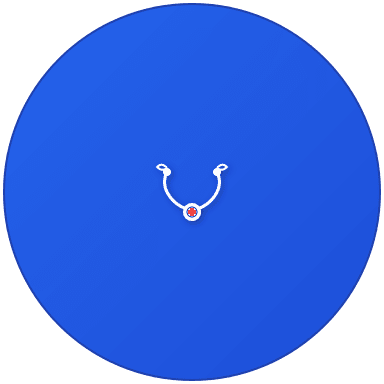
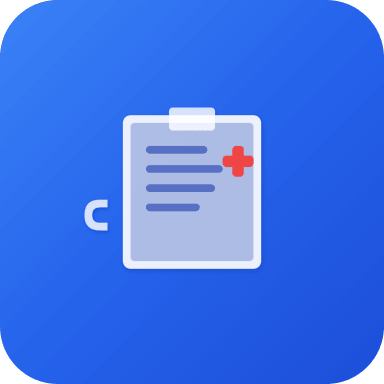
made pwa more beautiful

diff --git a/scripts/generate-icons.js b/scripts/generate-icons.js
@@ -8,43 +8,52 @@ if (!fs.existsSync(publicDir)) {
   fs.mkdirSync(publicDir, { recursive: true });
 }
 
-// Create SVG content for a medical stethoscope icon
+// Create SVG content for a clean, modern medical icon
 const createSVG = (size, bgColor = '#2563eb', iconColor = '#ffffff') => `
 <svg width="${size}" height="${size}" xmlns="http://www.w3.org/2000/svg">
   <defs>
     <linearGradient id="bg" x1="0%" y1="0%" x2="100%" y2="100%">
-      <stop offset="0%" style="stop-color:${bgColor};stop-opacity:1" />
+      <stop offset="0%" style="stop-color:#3b82f6;stop-opacity:1" />
+      <stop offset="50%" style="stop-color:#2563eb;stop-opacity:1" />
       <stop offset="100%" style="stop-color:#1d4ed8;stop-opacity:1" />
     </linearGradient>
     <filter id="shadow" x="-50%" y="-50%" width="200%" height="200%">
-      <feDropShadow dx="2" dy="2" stdDeviation="3" flood-color="#000" flood-opacity="0.3"/>
+      <feDropShadow dx="1" dy="2" stdDeviation="2" flood-color="#000" flood-opacity="0.15"/>
     </filter>
   </defs>
   
-  <!-- Background circle -->
-  <circle cx="${size/2}" cy="${size/2}" r="${size/2 - 4}" fill="url(#bg)" stroke="#1e40af" stroke-width="2"/>
+  <!-- Background with subtle radius -->
+  <rect x="0" y="0" width="${size}" height="${size}" rx="${size * 0.15}" fill="url(#bg)" />
   
-  <!-- Stethoscope design -->
+  <!-- Main icon group -->
   <g transform="translate(${size/2}, ${size/2})" fill="${iconColor}" filter="url(#shadow)">
-    <!-- Main tube -->
-    <path d="M-25,-20 Q-30,-10 -25,0 Q-20,10 -10,15 Q0,20 10,15 Q20,10 25,0 Q30,-10 25,-20" 
-          stroke="${iconColor}" stroke-width="3" fill="none"/>
     
-    <!-- Left earpiece -->
-    <circle cx="-25" cy="-20" r="4" fill="${iconColor}"/>
-    <path d="M-25,-24 Q-30,-30 -35,-25 Q-30,-20 -25,-24" stroke="${iconColor}" stroke-width="2" fill="none"/>
-    
-    <!-- Right earpiece -->
-    <circle cx="25" cy="-20" r="4" fill="${iconColor}"/>
-    <path d="M25,-24 Q30,-30 35,-25 Q30,-20 25,-24" stroke="${iconColor}" stroke-width="2" fill="none"/>
-    
-    <!-- Chest piece -->
-    <circle cx="0" cy="20" r="8" fill="${iconColor}" stroke="${iconColor}" stroke-width="2"/>
-    <circle cx="0" cy="20" r="5" fill="none" stroke="#1e40af" stroke-width="1"/>
-    
-    <!-- Medical cross on chest piece -->
-    <path d="M-2,16 L2,16 L2,18 L4,18 L4,22 L2,22 L2,24 L-2,24 L-2,22 L-4,22 L-4,18 L-2,18 Z" 
-          fill="#ef4444"/>
+    <!-- Medical clipboard/chart icon -->
+    <g transform="scale(${size/100})">
+      <!-- Clipboard background -->
+      <rect x="-18" y="-20" width="36" height="40" rx="2" fill="${iconColor}" opacity="0.9"/>
+      <rect x="-16" y="-18" width="32" height="36" rx="1" fill="#1e40af" opacity="0.3"/>
+      
+      <!-- Clip at top -->
+      <rect x="-6" y="-22" width="12" height="6" rx="1" fill="${iconColor}" opacity="0.8"/>
+      
+      <!-- Text lines on clipboard -->
+      <rect x="-12" y="-12" width="16" height="2" rx="1" fill="#1e40af" opacity="0.6"/>
+      <rect x="-12" y="-7" width="20" height="2" rx="1" fill="#1e40af" opacity="0.6"/>
+      <rect x="-12" y="-2" width="18" height="2" rx="1" fill="#1e40af" opacity="0.6"/>
+      <rect x="-12" y="3" width="14" height="2" rx="1" fill="#1e40af" opacity="0.6"/>
+      
+      <!-- Medical cross accent -->
+      <g transform="translate(12, -8)" fill="#ef4444">
+        <rect x="-1.5" y="-4" width="3" height="8" rx="1"/>
+        <rect x="-4" y="-1.5" width="8" height="3" rx="1"/>
+      </g>
+      
+      <!-- Stylized "C" for ClerkSmart -->
+      <g transform="translate(-20, 8)" fill="${iconColor}" opacity="0.8">
+        <path d="M -4 -6 Q -8 -6 -8 -2 Q -8 2 -4 2 L -2 2 L -2 0 L -4 0 Q -6 0 -6 -2 Q -6 -4 -4 -4 L -2 -4 L -2 -6 Z" />
+      </g>
+    </g>
   </g>
 </svg>`;
 
@@ -81,7 +90,7 @@ const faviconSizes = [
 ];
 
 async function generateIcons() {
-  console.log('🎨 Generating PWA icons for ClerkSmart...');
+  console.log('🎨 Generating BEAUTIFUL PWA icons for ClerkSmart...');
   
   try {
     // Generate PWA icons
@@ -91,7 +100,7 @@ async function generateIcons() {
       
       await sharp(svgBuffer)
         .resize(icon.size, icon.size)
-        .png({ quality: 90, compressionLevel: 9 })
+        .png({ quality: 95, compressionLevel: 9 })
         .toFile(outputPath);
       
       console.log(`✅ Generated ${icon.name}`);
@@ -104,7 +113,7 @@ async function generateIcons() {
       
       await sharp(svgBuffer)
         .resize(icon.size, icon.size)
-        .png({ quality: 90, compressionLevel: 9 })
+        .png({ quality: 95, compressionLevel: 9 })
         .toFile(outputPath);
       
       console.log(`🍎 Generated ${icon.name}`);
@@ -117,7 +126,7 @@ async function generateIcons() {
       
       await sharp(svgBuffer)
         .resize(icon.size, icon.size)
-        .png({ quality: 90, compressionLevel: 9 })
+        .png({ quality: 95, compressionLevel: 9 })
         .toFile(outputPath);
       
       console.log(`🔖 Generated ${icon.name}`);
@@ -127,14 +136,21 @@ async function generateIcons() {
     const svgBuffer = Buffer.from(createSVG(32));
     await sharp(svgBuffer)
       .resize(32, 32)
-      .png({ quality: 90, compressionLevel: 9 })
+      .png({ quality: 95, compressionLevel: 9 })
       .toFile(path.join(publicDir, 'favicon.png'));
+    
+    // Copy as favicon.ico
+    await sharp(svgBuffer)
+      .resize(32, 32)
+      .png({ quality: 95, compressionLevel: 9 })
+      .toFile(path.join(publicDir, 'favicon.ico'));
     
     // Generate source SVG for reference
     fs.writeFileSync(path.join(publicDir, 'icon.svg'), createSVG(512));
     
-    console.log('🎉 All icons generated successfully!');
+    console.log('🎉 GORGEOUS icons generated successfully!');
     console.log(`📁 Icons saved to: ${publicDir}`);
+    console.log('🚀 Much cleaner design with medical clipboard + "C" branding!');
     
   } catch (error) {
     console.error('❌ Error generating icons:', error);

diff --git a/src/components/hpc/HPCDisplayMobile.tsx b/src/components/hpc/HPCDisplayMobile.tsx
@@ -1,6 +1,6 @@
 'use client';
 
-import React, { useState } from 'react';
+import React, { useState, useEffect } from 'react';
 import { Card, CardContent } from '@/components/ui/card';
 import { HPCButton } from '@/components/ui/HPCButton';
 import { 
@@ -40,6 +40,29 @@ export function HPCDisplayMobile({ data, isLoading = false }: HPCDisplayMobilePr
   const [currentComplaintIndex, setCurrentComplaintIndex] = useState(0);
   const [showRationales, setShowRationales] = useState(false);
   const [showComplaintsList, setShowComplaintsList] = useState(false);
+  const [isPWA, setIsPWA] = useState(false);
+
+  // Detect PWA mode
+  useEffect(() => {
+    const checkPWAMode = () => {
+      // Check if running in standalone mode (PWA)
+      const isStandalone = window.matchMedia('(display-mode: standalone)').matches;
+      // Also check for iOS PWA
+      const isIOSPWA = (window.navigator as any).standalone === true;
+      // Check for Android PWA indicator
+      const isAndroidPWA = document.referrer.includes('android-app://');
+      
+      setIsPWA(isStandalone || isIOSPWA || isAndroidPWA);
+    };
+
+    checkPWAMode();
+    
+    // Listen for display mode changes
+    const mediaQuery = window.matchMedia('(display-mode: standalone)');
+    mediaQuery.addEventListener('change', checkPWAMode);
+    
+    return () => mediaQuery.removeEventListener('change', checkPWAMode);
+  }, []);
 
   const currentComplaint = data.presenting_complaints[currentComplaintIndex];
   const totalComplaints = data.presenting_complaints.length;
@@ -55,8 +78,6 @@ export function HPCDisplayMobile({ data, isLoading = false }: HPCDisplayMobilePr
       setCurrentComplaintIndex(currentComplaintIndex - 1);
     }
   };
-
-
 
   const handleShare = async () => {
     const shareText = `ClerkSmart HPC - ${data.diagnosis}\n\n${currentComplaint.complaint}\n\n${currentComplaint.questions
@@ -248,7 +269,7 @@ export function HPCDisplayMobile({ data, isLoading = false }: HPCDisplayMobilePr
       </div>
 
       {/* Current Complaint */}
-      <div className="flex-1 overflow-y-auto p-4">
+      <div className={`flex-1 overflow-y-auto p-4 ${isPWA ? 'pb-24' : ''}`}>
         <div className="max-w-lg mx-auto space-y-6">
           {/* Complaint Header */}
           <div className="text-center space-y-3">
@@ -293,32 +314,43 @@ export function HPCDisplayMobile({ data, isLoading = false }: HPCDisplayMobilePr
         </div>
       </div>
 
-      {/* Bottom Navigation */}
-      <div className="bg-white dark:bg-slate-900 border-t border-slate-200 dark:border-slate-700 p-4">
-        <div className="flex gap-3 max-w-lg mx-auto">
-          <HPCButton
-            onClick={handlePrevious}
-            disabled={currentComplaintIndex === 0}
-            variant="navigation"
-            size="lg"
-            className="flex-1 h-12"
-          >
-            <ArrowLeft className="h-4 w-4 mr-2" />
-            Previous
-          </HPCButton>
-          
-          <HPCButton
-            onClick={handleNext}
-            disabled={currentComplaintIndex === totalComplaints - 1}
-            variant="primary"
-            size="lg"
-            className="flex-1 h-12"
-          >
-            Next
-            <ChevronDown className="h-4 w-4 ml-2 rotate-[-90deg]" />
-          </HPCButton>
+      {/* Bottom Navigation - PWA Optimized */}
+      <div className={`bg-white dark:bg-slate-900 border-t border-slate-200 dark:border-slate-700 ${
+        isPWA 
+          ? 'fixed bottom-0 left-0 right-0 z-50 safe-area-inset-bottom shadow-lg border-t-2 border-t-blue-100 dark:border-t-blue-900' 
+          : ''
+      }`}>
+        <div className={`p-4 ${isPWA ? 'pb-safe' : ''}`}>
+          <div className="flex gap-3 max-w-lg mx-auto">
+            <HPCButton
+              onClick={handlePrevious}
+              disabled={currentComplaintIndex === 0}
+              variant="navigation"
+              size="lg"
+              className={`flex-1 ${isPWA 
+                ? 'h-14 text-base font-semibold shadow-lg hover:shadow-xl active:scale-95 transition-all duration-200' 
+                : 'h-12'
+              }`}
+            >
+              <ArrowLeft className={`${isPWA ? 'h-5 w-5' : 'h-4 w-4'} mr-2`} />
+              Previous
+            </HPCButton>
+            
+            <HPCButton
+              onClick={handleNext}
+              disabled={currentComplaintIndex === totalComplaints - 1}
+              variant="primary"
+              size="lg"
+              className={`flex-1 ${isPWA 
+                ? 'h-14 text-base font-semibold shadow-lg hover:shadow-xl active:scale-95 transition-all duration-200' 
+                : 'h-12'
+              }`}
+            >
+              Next
+              <ChevronDown className={`${isPWA ? 'h-5 w-5' : 'h-4 w-4'} ml-2 rotate-[-90deg]`} />
+            </HPCButton>
+          </div>
         </div>
-
       </div>
     </div>
   );

diff --git a/src/app/globals.css b/src/app/globals.css
@@ -2,6 +2,34 @@
 @tailwind components;
 @tailwind utilities;
 
+/* PWA Safe Area Support */
+@supports (padding: max(0px)) {
+  .safe-area-inset-bottom {
+    padding-bottom: max(1rem, env(safe-area-inset-bottom));
+  }
+  
+  .pb-safe {
+    padding-bottom: env(safe-area-inset-bottom);
+  }
+  
+  /* PWA Specific Styles */
+  @media (display-mode: standalone) {
+    .pwa-bottom-nav {
+      position: fixed !important;
+      bottom: 0;
+      left: 0;
+      right: 0;
+      z-index: 50;
+      padding-bottom: max(1rem, env(safe-area-inset-bottom));
+      box-shadow: 0 -4px 6px -1px rgba(0, 0, 0, 0.1), 0 -2px 4px -1px rgba(0, 0, 0, 0.06);
+    }
+    
+    .pwa-content-padding {
+      padding-bottom: calc(5rem + env(safe-area-inset-bottom));
+    }
+  }
+}
+
 /* Theme Variables */
 :root {
   /* Light theme colors */
